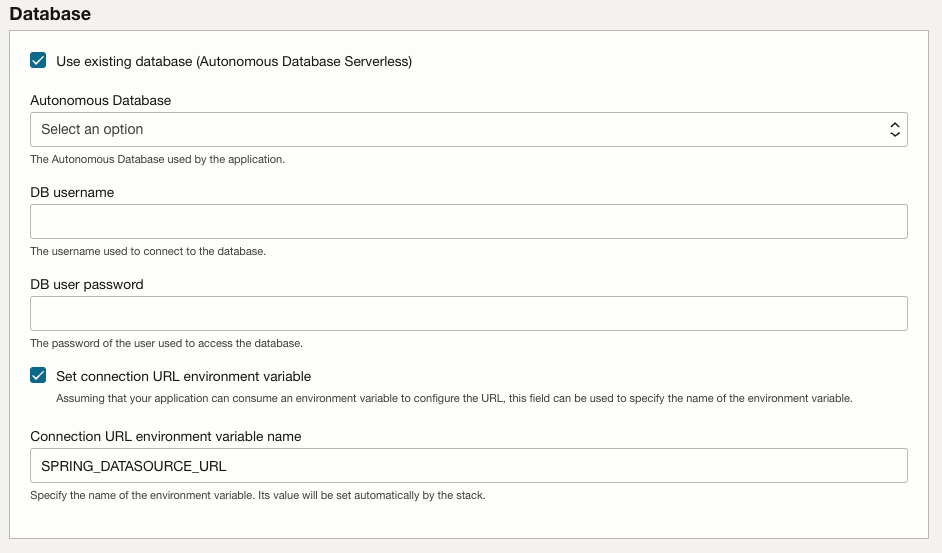
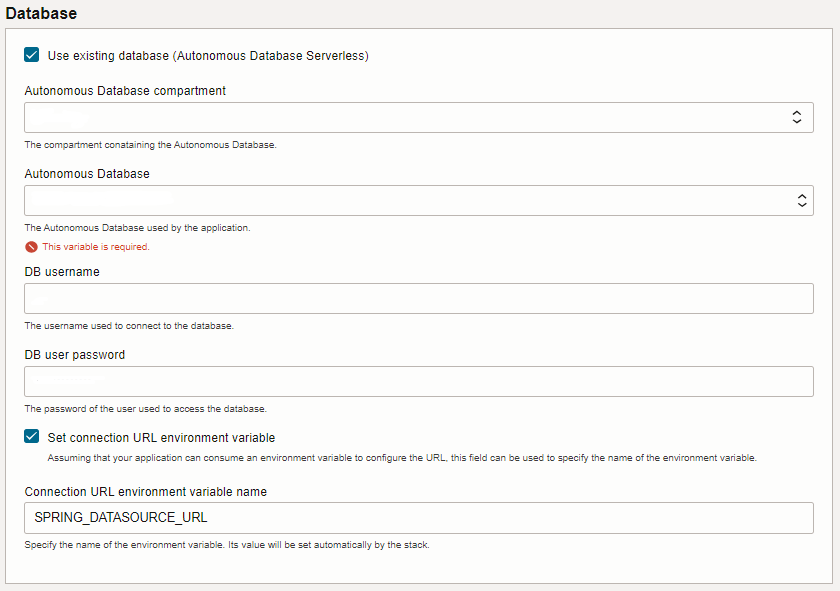
Removed choice of compartment for source code and added choice of compartment for existing database

Changed region(s): [[0.0, 0.0, 1.0, 1.0], [0.0, 0.953, 0.031, 0.9837]]

diff --git a/usage_instructions.md b/usage_instructions.md
@@ -25,15 +25,16 @@ The stack supports different kinds of deployments: *source code* deployment, jav
        - WAR: If your application is packaged as a Web Archive. The WAR will be deployed in a Tomcat Server. This Tomcat Server will be started using the JVM Options provided in the "Other Parameters" section.
 
   - If the *application source* is *source code*: 
-       - **DevOps compartment:** select the compartment containing the code repository
        - **DevOps repository name (OCID):** OCID of the repository containing the *source code* of the application
        - **Branch used for build/deployment:** name of the branch to build a deploy. A build trigger will be added so that the application is built and deployed each time a change is made to this branch.
        - **Application build command:** command used to build the application. This command will be used by the build pipeline to build the application.
        - **Artifact path:** The path to the generated application *artifact* (jar or war file) after the build command has run.
   - If the *application source* is an *artifact*:
+       - **DevOps compartment:** select the compartment where the DevOps project will be created
        - **Artifact repository OCID:** OCID of the repository containing the artifact
        - **Artifact OCID:** OCID of the *artifact* to deploy
   - If the *application source* is a *container image*:
+       - **DevOps compartment:** select the compartment where the DevOps project will be created
        - **Full path to the image in the container registry**
        - **Exposed port:** port exposed by the container image
 
@@ -72,6 +73,7 @@ Your application will automatically be monitored through APM using the Java Agen
 The stack assumes that the persistence is handled by a database and this section lets you configure that database. You can either choose an existing database or create a new one. If you create a new one it will be configured by the stack so that the application can connect to it using network security groups and a private endpoint. If you choose an existing database, you need to configure the network access for the application. For example, if an Autonomous Database Serverless is chosen, access from the application may require either a private endpoint or an ACL rule. 
 
  - Use existing database:
+   - **Autonomous Database compartment:** compartment containing the autonomous database
    - **Autonomous Database:** this drop-down field lists all autonomous databases in the selected compartment. Select the database you want the application to access.
    - **DB Username:** provide the username that the application should use to access the database
    - **DB user password:** provide the user's password
